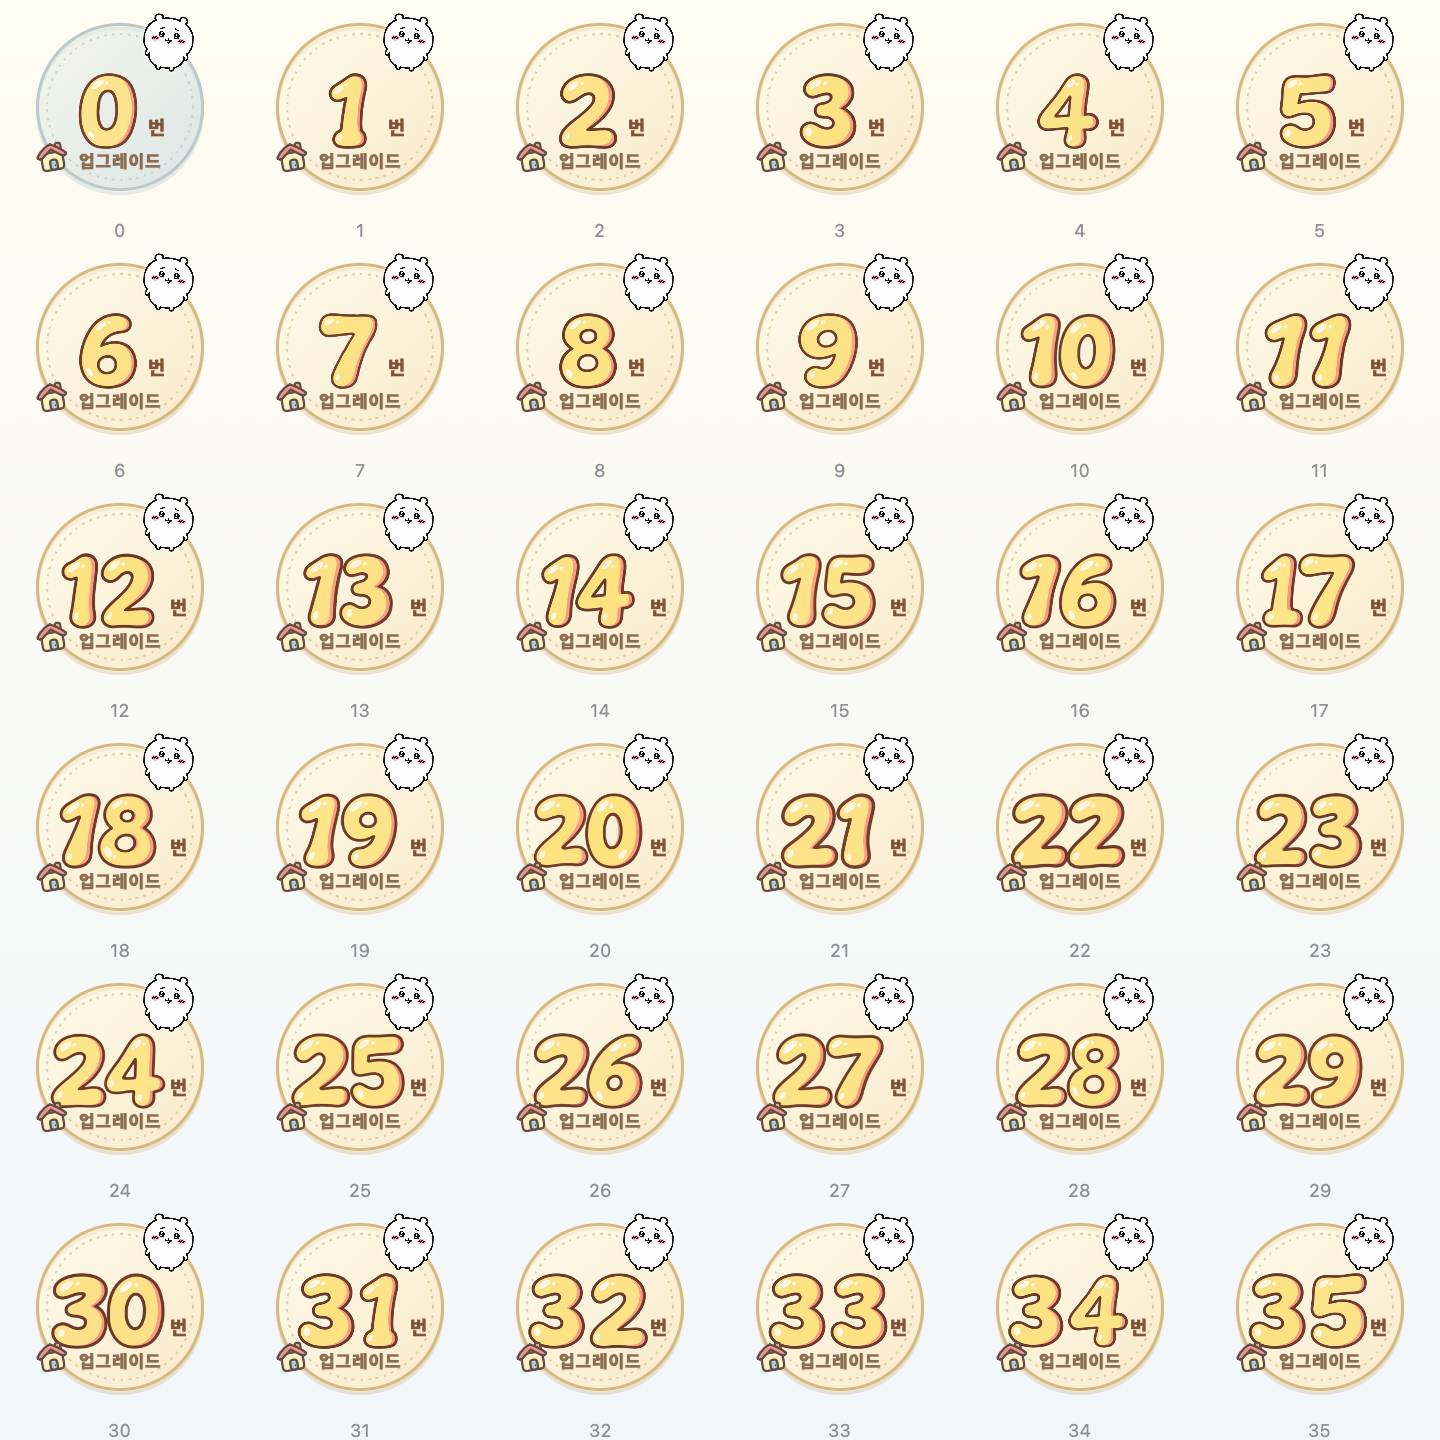
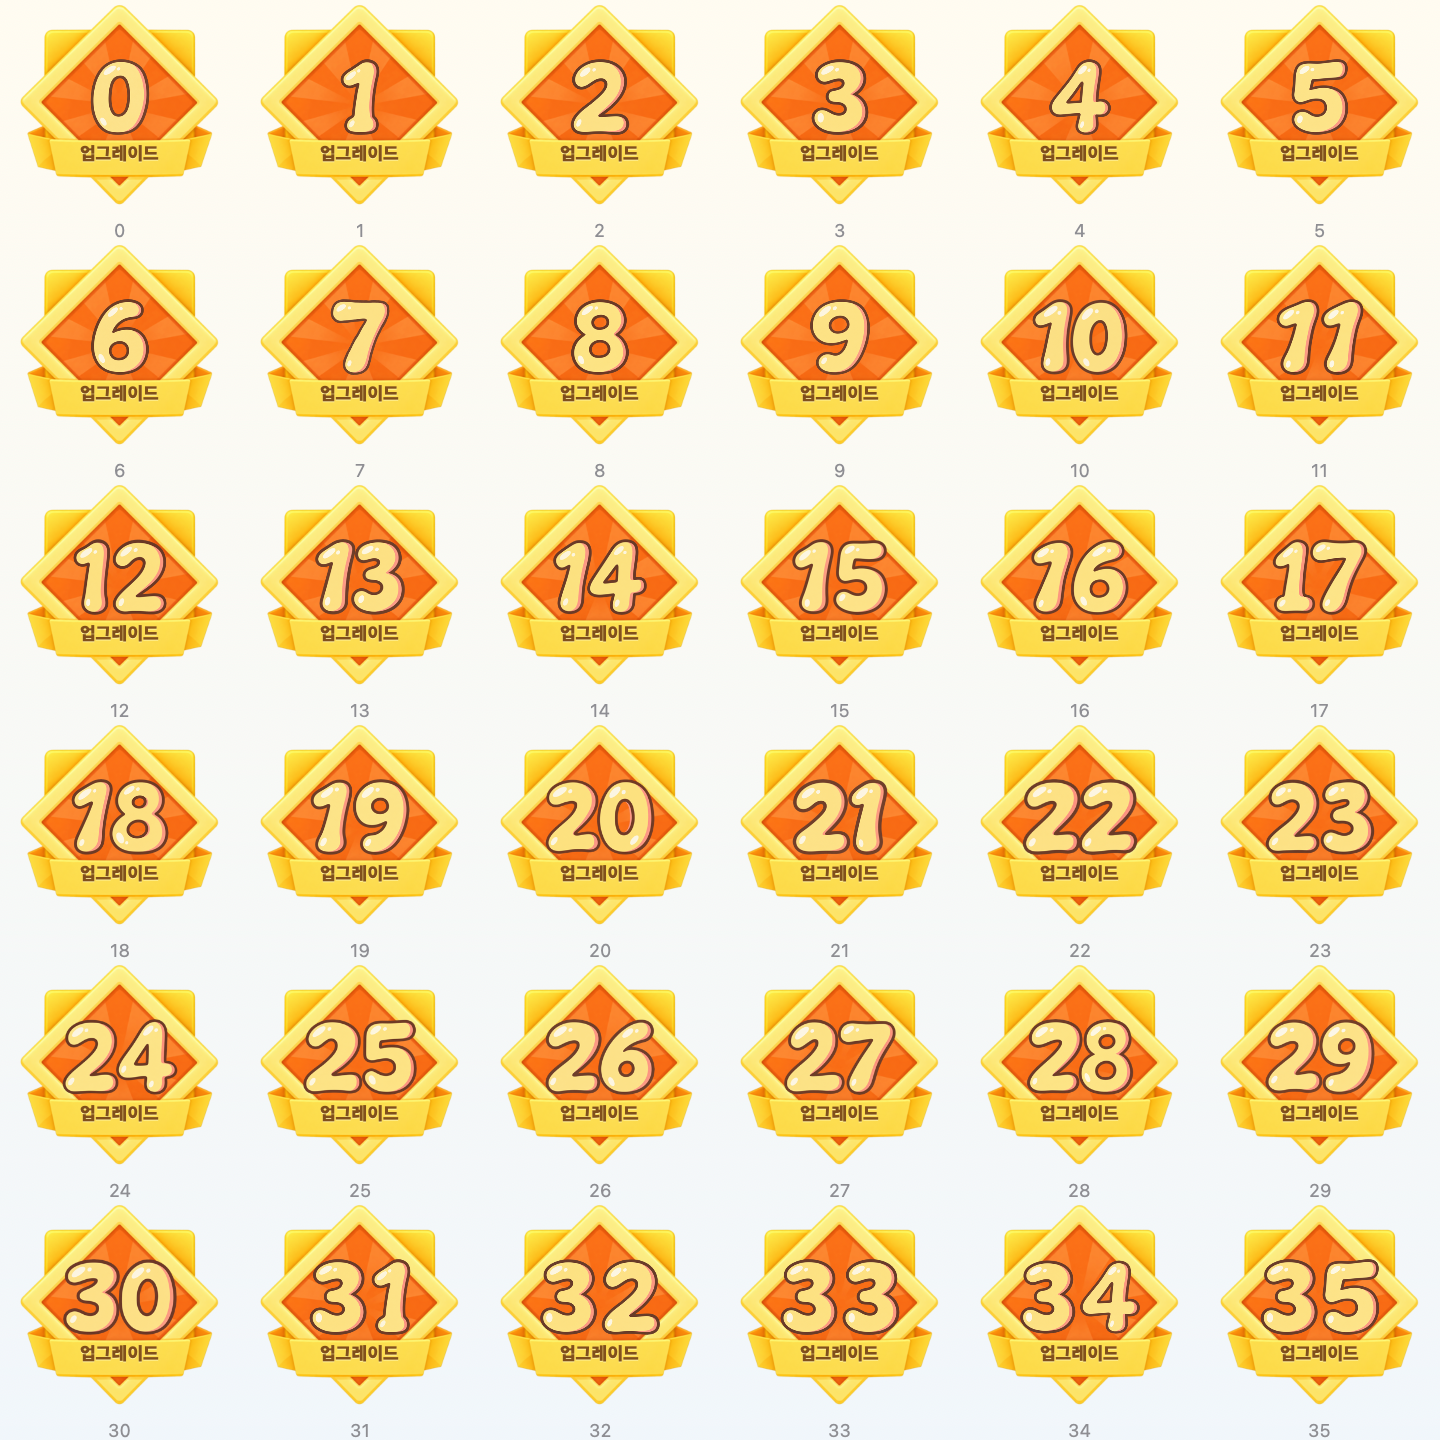
Replace upgrade stamp with gold reward medal and ribbon

diff --git a/Sources/ChiiBar/UpgradeBadge.swift b/Sources/ChiiBar/UpgradeBadge.swift
@@ -1,50 +1,36 @@
-import ChiiCore
+import AppKit
 import SwiftUI
 
-/// A collectible daily stamp decorated with the same friends as the game.
+/// A gold reward medal, with illustrated counts and a readable ribbon label.
 struct UpgradeBadge: View {
     let count: Int
-    private var gold: Color { Ink.rgb(count > 0 ? 0xD6B883 : 0xBBC9CA) }
+    private static let artwork: NSImage? = {
+        let root = ProcessInfo.processInfo.environment["CHIIBAR_NUMBERS"].map { URL(fileURLWithPath: $0) }
+            ?? (Bundle.main.resourceURL ?? Bundle.main.bundleURL).appendingPathComponent("StampNumbers")
+        return NSImage(contentsOf: root.appendingPathComponent("badge-gold.png"))
+    }()
 
     var body: some View {
         ZStack {
-            Circle()
-                .fill(LinearGradient(colors: count > 0 ? [Ink.rgb(0xFFFAEB), Ink.rgb(0xF7EACB)] : [Ink.rgb(0xF5F5EB), Ink.rgb(0xDCE6E7)], startPoint: .topLeading, endPoint: .bottomTrailing))
-                .frame(width: 84, height: 84)
-                .overlay(Circle().strokeBorder(gold, lineWidth: 1.5))
-                .shadow(color: gold.opacity(0.2), radius: 0, y: 2)
-            Circle().stroke(gold.opacity(0.65), style: StrokeStyle(lineWidth: 1, dash: [1, 3]))
-                .frame(width: 73, height: 73)
-            HStack(alignment: .bottom, spacing: 1) {
-                IllustratedNumber(count: count)
-                Text("번")
-                    .font(.custom("AppleSDGothicNeo-Heavy", size: 10))
-                    .foregroundStyle(Ink.rgb(0x815437))
-                    .padding(.bottom, 4)
+            if let artwork = Self.artwork {
+                Image(nsImage: artwork)
+                    .resizable()
+                    .interpolation(.high)
+                    .scaledToFit()
+                    .frame(width: 112, height: 108)
             }
-            .offset(x: -1, y: 2)
+            IllustratedNumber(count: count)
+                .offset(y: -5)
             Text("업그레이드")
                 .font(.custom("AppleSDGothicNeo-Heavy", size: 9))
-                .tracking(0.5)
-                .foregroundStyle(Ink.rgb(0x8A6C51))
-                .offset(y: 28)
-            friend(.chiikawa).rotationEffect(.degrees(8)).offset(x: 24, y: -32)
-            GameSymbol(kind: .home).scaleEffect(0.82).rotationEffect(.degrees(-10))
-                .offset(x: -34, y: 25)
-
+                .tracking(0.15)
+                .foregroundStyle(Ink.rgb(0x81501B))
+                .shadow(color: Ink.rgb(0xFFF2A0), radius: 0, y: 0.5)
+                .offset(y: 24)
         }
         .frame(width: 112, height: 108)
         .accessibilityElement(children: .ignore)
         .accessibilityLabel("오늘 업그레이드 \(count)번")
-    }
-
-    private func friend(_ id: FriendID) -> some View {
-        Canvas { context, size in
-            _ = SpriteArt.drawFace(context, id, in: CGRect(origin: .zero, size: size))
-        }
-        .frame(width: 28, height: 28)
-        .shadow(color: .white.opacity(0.9), radius: 1)
-        .accessibilityHidden(true)
     }
 }
 

diff --git a/Art/StampNumbers/README.md b/Art/StampNumbers/README.md
@@ -8,3 +8,7 @@ Production numeral PNGs for the daily upgrade stamp, created with the built-in i
 - The renderer trims transparent margins only in memory, fits the illustration inside the stamp, and caches a maximum-192px display image. The saved PNGs remain intact.
 - Counts above 30 use the illustrated 0–9 digits. The saved count, progression rules, and accessibility labels remain numeric and unchanged.
 - Build packaging requires all 31 images; image accuracy and 1–30 layouts are visually reviewed in the number-stamps preview.
+
+## 금빛 업그레이드 배지 (0.4.12)
+
+`badge-gold.png`는 사용자가 제공한 금빛 다이아몬드·리본 배지를 참고해 내장 이미지 생성 도구로 새로 제작한 투명 배경 이미지입니다. 중앙 숫자는 기존 개별 숫자 이미지를 겹치고 리본의 ‘업그레이드’는 앱에서 표시합니다. 원본은 수정하지 않고 보관합니다. 제작 요청은 `badge-prompt.txt`에 기록했습니다.
